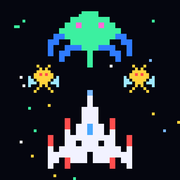
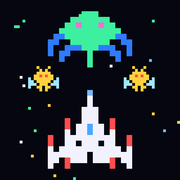
Drone: replace leg-like limbs with short pincers
Claude-Session: https://claude.ai/code/session_011nb5WKar14f4BPF86BE6mK

Changed region(s): [[0.1389, 0.3333, 0.3333, 0.5278], [0.6667, 0.3333, 0.8611, 0.5278]]

diff --git a/index.html b/index.html
@@ -59,8 +59,8 @@ const rnd=Math.random,clamp=(v,a,b)=>v<a?a:v>b?b:v,pick=a=>a[(rnd()*a.length)|0]
 function P(rows){const h=rows.length,w=rows[0].length,d=new Uint8Array(w*h);
   rows.forEach((r,y)=>{for(let x=0;x<w;x++){const ch=r[x];d[y*w+x]=ch==='#'?1:ch==='o'?2:ch==='x'?3:0;}});return{w,h,d};}
 const SP={
- drone:[P(["...#...#...","....#.#....","...#####...","..##x#x##..","o.#######.o","oo.#####.oo","ooo.###.ooo","o...#.#...o","...#...#...","..#.....#.."]),
-        P(["...#...#...","....#.#....","o..#####..o","oo##x#x##oo","ooo#####ooo","o..#####..o","....###....","....#.#....","....#.#....","...#...#..."])],
+ drone:[P(["...#...#...","....#.#....","...#####...","..##x#x##..","o.#######.o","oo.#####.oo","ooo.###.ooo","o..##.##..o","....#.#...."]),
+        P(["...#...#...","....#.#....","o..#####..o","oo##x#x##oo","ooo#####ooo","o..#####..o","....###....","...##.##...","...#...#..."])],
  wasp:[P(["oo.........oo",".oo..###..oo.","..oo.#x#.oo..","...o#####o...","..#########..",".oo.#####.oo.","oo...###...oo","......#......"]),
        P([".............","o....###....o","oo...#x#...oo",".oo.#####.oo.","..#########..","...#.###.#...","....#.#.#....","......#......"])],
  boss:[P(["......###......","....#######....","...##x###x##...","..###########..",".oo#########oo.","oo..#######..oo","o..ooo###ooo..o","o.oo...#...oo.o","..o....#....o..",".......#......."]),
